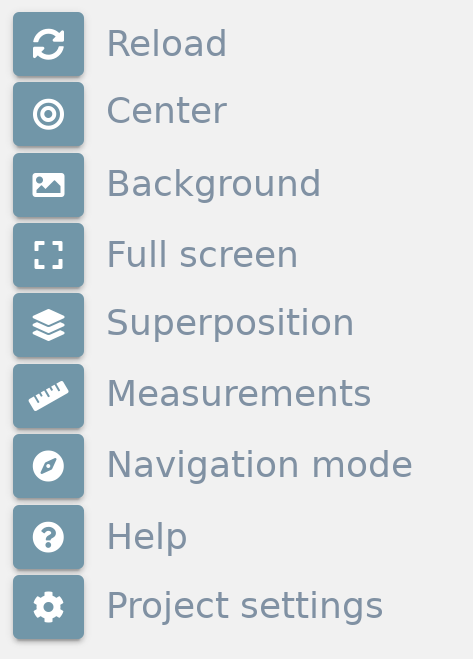
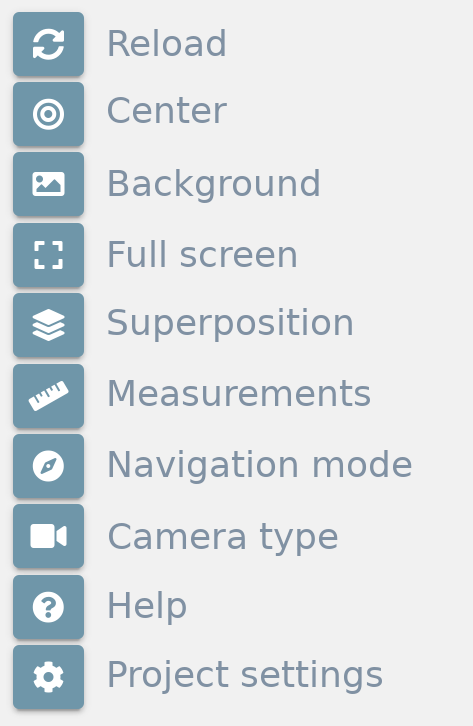
Edit - Camera type and trajectory timeout

diff --git a/3drs-docs/docs/source/edit.md b/3drs-docs/docs/source/edit.md
@@ -66,6 +66,7 @@ The tools menu is at the top left of the **stage** and allows users to make some
 * **[Superposition](#superposition)**
 * **[Measurements](#measurements)**
 * **[Navigation mode](#navigation-mode)**
+* **[Camera type](#camera-type)**
 * **[Help](#help)**
 * **[Project settings](#project-settings)**
 
@@ -162,6 +163,12 @@ During the navigation mode, the mouse pointer changes its aspect to a grabbing h
 ![](_static/edit/edit11c.png)
 
 The **Navigation mode** will be enabled until users **click the button again**.
+
+### Camera type
+
+![](_static/edit/edit12z.png)
+
+Switches camera type between **orthographic** and **perspective**.
 
 ### Help
 
@@ -1041,11 +1048,13 @@ There is a mini menu at the right side of the block header:
 
 Different trajectory properties can be updated:
 
-* **Range:** initially set from the first to the last frame of the trajectory, defines a range of frames with which the trajectory will be played.
+* **Range:** initially set from the first to the last frame of the trajectory, defines a **range of frames** with which the trajectory will be played.
 * **Step:** defines the number of frames between playing steps.
-* Interpolation: type of interpolation between steps. Possible values: None, Linear or Spline.
+* **Interpolation:** type of interpolation between steps. Possible values: None, Linear or Spline.
+* **Timeout:** timeout between playing frames. Actually this slider is in a logarithmic scale from **50** to **10000**, but it has been set from 0 to 100 for the sake of simplicity.
 * **Loop:** if enabled plays the trajectory indefinitely.
 * **Autoplay:** if enabled plays the trajectory automatically.
+* **Bounce:** if enabled plays in rock / bounce mode (back and forth).
 
 ## Share
 
